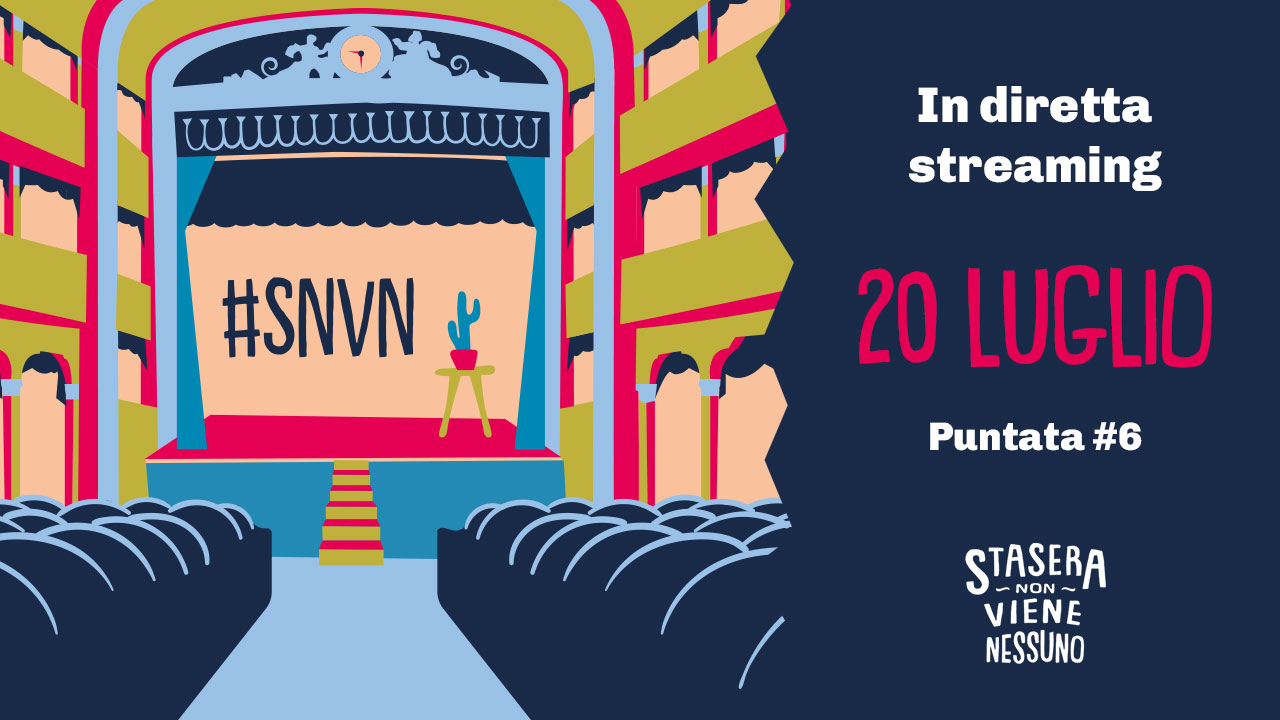
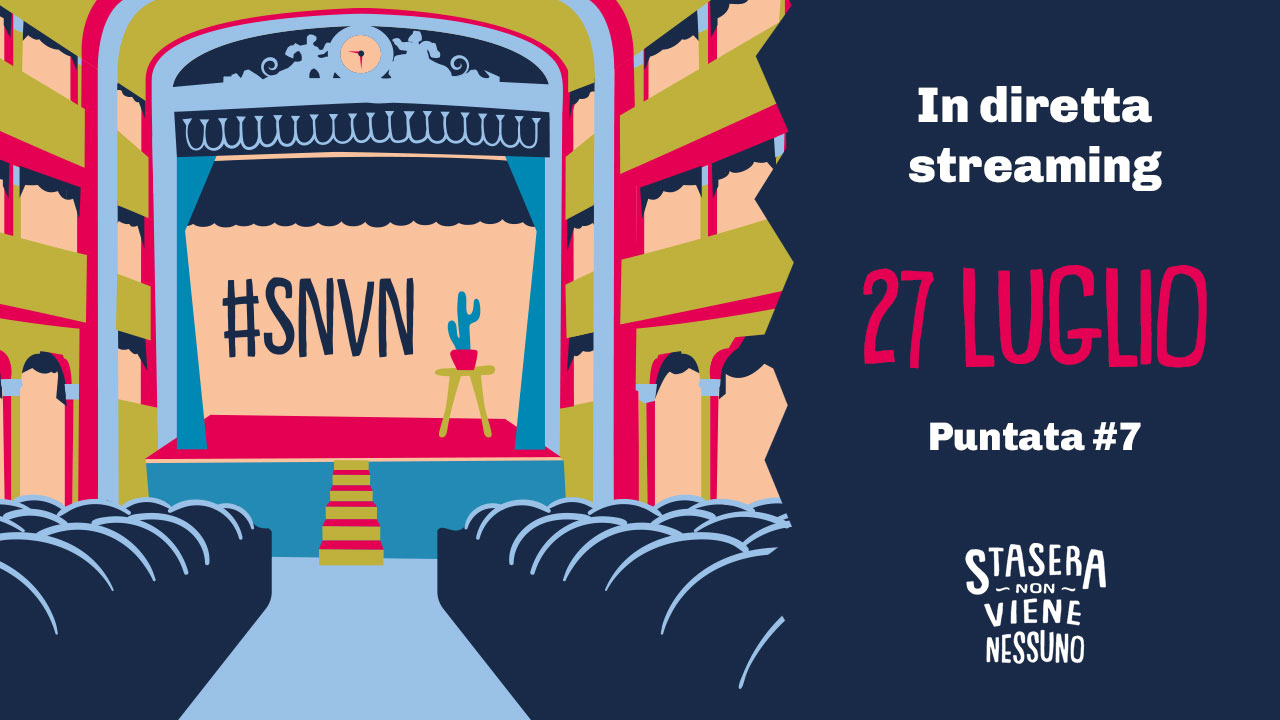
end of season

Changed region(s): [[0.6562, 0.3667, 0.9688, 0.5194], [0.875, 0.5806, 0.9062, 0.6417]]

diff --git a/index.html b/index.html
@@ -94,6 +94,7 @@
         }
 
         .sipario-bkg {
+            position: absolute;
             width:100%;background-color: #192a48;
             height: 100%;
             color: white;
@@ -147,6 +148,7 @@
             display: flex;
             align-items: center;
             justify-content: center;
+            flex-direction: column;
         }
         .date {
             color: #e40053;
@@ -160,12 +162,22 @@
     color: #192a48;
     font-size: 1.5em;
     list-style: none;
-    text-align: right;
+    text-align: center;
+
+    display: flex;
+    flex-wrap: wrap;
+    justify-content: center;
         }
 
-        .calendar > li:not(:first-child) {
+        .calendar>li {
+    margin-right: 20px;
+    margin-top: 60px;
+    width: 280px;
+}
+
+        /* .calendar > li:not(:first-child) {
             margin-top: 15px;
-        }
+        } */
 
         ul.names {
             list-style: none;
@@ -416,7 +428,7 @@ margin-top: 80px;
                 <svg class="arrow-down" xmlns="http://www.w3.org/2000/svg" width="24" height="24" viewBox="0 0 24 24"><path d="M0 7.33l2.829-2.83 9.175 9.339 9.167-9.339 2.829 2.83-11.996 12.17z"/></svg>
             </a>
         </div>
-        <img src="img/sipario.svg" alt="">
+        <img src="img/sipario.svg" style="    background-color: #9ac1e7;        z-index: 130;        position: absolute;        bottom: 0;" alt="Sipario">
     </div>
 
     
@@ -435,11 +447,44 @@ margin-top: 80px;
                 <a href="https://www.youtube.com/channel/UCRoKzBP9y8rmdcRSgY-0a5Q/" target="_blank" rel="noopener noreferrer"><img src="img/youtube.svg" alt="YouTube"></a>
             </div>
             <br>
-            <a onclick="UTIL.scrollTo('.secondary');" target="_blank" rel="noopener noreferrer" class="btn outline">SCOPRI IL PROGRAMMA</a>
-            <br><a style="margin-top: 20px;" href="https://youtu.be/6Y-BINEaFWo" target="_blank" rel="noopener noreferrer" class="btn pulse">GUARDA LA DIRETTA</a>
+            <a onclick="UTIL.scrollTo('.calendar');" target="_blank" rel="noopener noreferrer" class="btn outline">SCOPRI IL PROGRAMMA</a>
+            <br><a style="margin-top: 20px;" onclick="UTIL.scrollTo('.calendar');" target="_blank" rel="noopener noreferrer" class="btn pulse">RIVEDI LE PUNTATE</a>
         </header>
     </section>
     <section class="secondary">
+        <div class="video-container">
+            <a href="https://www.youtube.com/watch?v=YvTb8iOCxEI" target="_blank" rel="noopener noreferrer">
+                <img src="img/video-cover-play.jpg?7" style="display:inline-block; width:100%;" alt="Guarda la diretta">
+                <div class="play-bkg"></div>
+                <div class="play-icon" style="background-image: url(img/play-icon.png);width: 100%;height: 100%;background-repeat: no-repeat;background-position: center;position: absolute;top: 0;right: 0;"></div>
+            </a>
+            <svg id="Livello_1" class="cactus" data-name="Livello 1" xmlns="http://www.w3.org/2000/svg" viewBox="0 0 414.51 813.41">
+                <defs>
+                    <style>
+                        .cls-1{fill:#118ab2;}.cls-2{fill:#ea1c5e;}.cls-3{fill:#b5ad4a;}.cls-4{fill:#fbbc97;}
+                    </style>
+                </defs>
+                <title>
+                    cactus-fiorito
+                </title>
+                <path class="cls-2" d="M226.25,825.11c-4.14-16.59-76.88-142-65.54-162.6s18.82-33.64,65.54-31.77,177.55-7.48,190.64,13.08-28,179.42-33.64,181.29S226.25,825.11,226.25,825.11Z" transform="translate(-91.59 -12.53)"></path>                
+                <path class="cls-1" d="M237,660c-26-37.32-28.91-60-54-97.5a264.56,264.56,0,0,1-41.2-105c-4.08-25.71-12.91-79.84,14.22-96.64,22.66-14,43.53-5.07,57.93,29.2,10.24,24.37,6.76,129.44,28.55,129.44,15.68,0,1.85-23.57-7.61-160.84-5.71-82.81-10.94-110.76-6.19-156,6.47-61.6-2.85-128,42-125.72S315.35,147.66,312.72,206c-1.44,32-.13,100.19,31.78,93.3S383.21,226.52,384,182.9s39.26-46.65,50.25-10.93,22.65,125.72-6.17,168.18-84.86,28.3-85.68,73.15S360.52,649.16,347.2,662,237,660,237,660Z" transform="translate(-91.59 -12.53)"></path>
+                <g class="flower">
+                    
+                    <path class="cls-3" d="M506.1,180.71c-4.45-.09-19.64-2.74-34,.06,7.24-12.43,10-27.19,11.47-31.69-3.64,2.55-17.49,9.33-27.46,20-1.45-14.32-7.88-27.89-9.34-32.38-1.45,4.2-8.67,17.83-10.45,32.34-9.58-10.73-22.76-17.93-26.59-20.7,1.29,4.25,3.47,19.52,10.56,32.3-14.06-3-28.95-1.12-33.68-1.12,3.55,2.68,14.28,13.76,27.53,19.93-13.16,5.8-24.08,16.11-27.91,18.89,4.45.09,19.64,2.74,34-.06-7.24,12.44-10,27.2-11.47,31.69,3.64-2.54,17.49-9.33,27.46-20,1.45,14.31,7.88,27.88,9.34,32.37,1.46-4.2,8.67-17.82,10.45-32.34,9.58,10.73,22.76,17.93,26.59,20.7-1.3-4.25-3.47-19.52-10.56-32.3,14.06,3,29,1.12,33.68,1.12-3.54-2.68-14.28-13.76-27.53-19.93C491.35,193.8,502.28,183.49,506.1,180.71Zm-59.91,18.86h-.05v0h0v0Z" transform="translate(-91.59 -12.53)"></path>
+                    <circle class="cls-4" cx="354.99" cy="186.63" r="15.07"></circle>
+                </g>
+                
+                <g class="flower">
+                <path class="cls-3" d="M195.92,372.56c-3.86-.07-17.09-2.38-29.58.05,6.3-10.82,8.72-23.67,10-27.58-3.18,2.21-15.23,8.12-23.91,17.43-1.26-12.46-6.86-24.27-8.13-28.18-1.27,3.65-7.55,15.52-9.1,28.15-8.34-9.34-19.82-15.61-23.15-18,1.13,3.7,3,17,9.19,28.12-12.24-2.65-25.2-1-29.32-1,3.09,2.33,12.43,12,24,17.34-11.46,5.06-21,14-24.29,16.45,3.87.07,17.09,2.38,29.58-.05-6.3,10.82-8.71,23.67-10,27.58,3.17-2.21,15.23-8.12,23.9-17.43,1.27,12.46,6.86,24.28,8.14,28.19,1.26-3.66,7.54-15.52,9.09-28.15,8.34,9.33,19.82,15.6,23.15,18-1.13-3.71-3-17-9.19-28.12,12.24,2.64,25.2,1,29.32,1-3.09-2.34-12.43-12-24-17.35C183.09,384,192.6,375,195.92,372.56ZM143.78,389h-.05v0h.05v0Z" transform="translate(-91.59 -12.53)"></path>
+                <circle class="cls-4" cx="52.52" cy="376.1" r="13.12"></circle>
+            </g><g class="flower">
+                <path class="cls-3" d="M325.8,72.6c-6.06-.12-26.81-3.74-46.41.08,9.89-17,13.68-37.14,15.67-43.28-5,3.47-23.89,12.74-37.5,27.35-2-19.55-10.77-38.08-12.77-44.22-2,5.74-11.84,24.35-14.26,44.17-13.09-14.65-31.09-24.49-36.32-28.28,1.77,5.81,4.73,26.66,14.42,44.12-19.2-4.15-39.54-1.53-46-1.53,4.84,3.67,19.49,18.79,37.59,27.22-18,7.93-32.89,22-38.11,25.8,6.07.12,26.82,3.74,46.41-.08-9.88,17-13.67,37.14-15.66,43.28,5-3.48,23.89-12.74,37.5-27.35,2,19.54,10.76,38.08,12.76,44.22,2-5.74,11.84-24.35,14.27-44.17,13.09,14.65,31.09,24.48,36.31,28.27-1.76-5.81-4.73-26.66-14.42-44.11,19.21,4.15,39.55,1.53,46,1.52-4.84-3.66-19.5-18.78-37.59-27.21C305.67,90.47,320.59,76.39,325.8,72.6ZM244,98.35h-.06l0,0v0s0,0,0,0H244a0,0,0,0,0,0,0v.06Z" transform="translate(-91.59 -12.53)"></path>
+                <circle class="cls-4" cx="152.93" cy="85.27" r="20.58"></circle>
+            </g>
+            </svg>
+            
+        </div>
         <ul class="calendar">
             <li>
                 <a href="https://www.youtube.com/watch?v=3uP_kypToLo" target="_blank" rel="noopener noreferrer" class="btn-tag">RIVEDI</a><span class="date">15 GIUGNO 2020</span>
@@ -484,13 +529,13 @@ margin-top: 80px;
                 <a href="https://youtu.be/D2IPKWLxYQE" target="_blank" rel="noopener noreferrer" class="btn-tag">RIVEDI</a>
                 <span class="date">13 LUGLIO 2020</span>
                 <ul class="names">
-                    <li>Emanuele Via & Charlie T</li>
+                    <li>Emanuele Via <br>& Charlie T</li>
                     <li>Magalì Berardo<br><small>Musicalista - Agenzia di booking internazionale</small></li>
                     <li>Roberto Zuino e Gabriele Girondi<br><small>Teatro Sequenza</small></li>
                 </ul>
             </li>
 	        <li>
-                <a href="https://youtu.be/6Y-BINEaFWo" target="_blank" rel="noopener noreferrer" class="btn-tag">GUARDA IN DIRETTA</a>
+                <a href="https://youtu.be/6Y-BINEaFWo" target="_blank" rel="noopener noreferrer" class="btn-tag">RIVEDI</a>
                 <span class="date">20 LUGLIO 2020</span>
                 <ul class="names">
                     <li>Zibba<br><small>Cantautore</small></li>
@@ -498,40 +543,17 @@ margin-top: 80px;
                     <li>Richi Selva<br><small>Stand Up Comedy</small></li>
                 </ul>
             </li>
+            <li>
+                <a href="https://youtu.be/YvTb8iOCxEI" target="_blank" rel="noopener noreferrer" class="btn-tag">RIVEDI</a>
+                <span class="date">27 LUGLIO 2020</span>
+                <ul class="names">
+                    <li>Cacao Mental<br><small>Elektro Cumbia Psicodelica</small></li>
+                    <li>Annarita Masullo<br><small>Direttore di produzione presso The Goodness Factory</small></li>
+                    <li>Marta Tortia<br><small>Violinista del Teatro Regio di Torino</small></li>
+                    <li>Carlo Joly<br><small>Comico</small></li>
+                </ul>
+            </li>
         </ul>
-        <div class="video-container">
-            <a href="https://www.youtube.com/watch?v=6Y-BINEaFWo" target="_blank" rel="noopener noreferrer">
-                <img src="img/video-cover-play.jpg?6" style="display:inline-block; width:100%;" alt="Guarda la diretta">
-                <div class="play-bkg"></div>
-                <div class="play-icon" style="background-image: url(img/play-icon.png);width: 100%;height: 100%;background-repeat: no-repeat;background-position: center;position: absolute;top: 0;right: 0;"></div>
-            </a>
-            <svg id="Livello_1" class="cactus" data-name="Livello 1" xmlns="http://www.w3.org/2000/svg" viewBox="0 0 414.51 813.41">
-                <defs>
-                    <style>
-                        .cls-1{fill:#118ab2;}.cls-2{fill:#ea1c5e;}.cls-3{fill:#b5ad4a;}.cls-4{fill:#fbbc97;}
-                    </style>
-                </defs>
-                <title>
-                    cactus-fiorito
-                </title>
-                <path class="cls-2" d="M226.25,825.11c-4.14-16.59-76.88-142-65.54-162.6s18.82-33.64,65.54-31.77,177.55-7.48,190.64,13.08-28,179.42-33.64,181.29S226.25,825.11,226.25,825.11Z" transform="translate(-91.59 -12.53)"></path>                
-                <path class="cls-1" d="M237,660c-26-37.32-28.91-60-54-97.5a264.56,264.56,0,0,1-41.2-105c-4.08-25.71-12.91-79.84,14.22-96.64,22.66-14,43.53-5.07,57.93,29.2,10.24,24.37,6.76,129.44,28.55,129.44,15.68,0,1.85-23.57-7.61-160.84-5.71-82.81-10.94-110.76-6.19-156,6.47-61.6-2.85-128,42-125.72S315.35,147.66,312.72,206c-1.44,32-.13,100.19,31.78,93.3S383.21,226.52,384,182.9s39.26-46.65,50.25-10.93,22.65,125.72-6.17,168.18-84.86,28.3-85.68,73.15S360.52,649.16,347.2,662,237,660,237,660Z" transform="translate(-91.59 -12.53)"></path>
-                <g class="flower">
-                    
-                    <path class="cls-3" d="M506.1,180.71c-4.45-.09-19.64-2.74-34,.06,7.24-12.43,10-27.19,11.47-31.69-3.64,2.55-17.49,9.33-27.46,20-1.45-14.32-7.88-27.89-9.34-32.38-1.45,4.2-8.67,17.83-10.45,32.34-9.58-10.73-22.76-17.93-26.59-20.7,1.29,4.25,3.47,19.52,10.56,32.3-14.06-3-28.95-1.12-33.68-1.12,3.55,2.68,14.28,13.76,27.53,19.93-13.16,5.8-24.08,16.11-27.91,18.89,4.45.09,19.64,2.74,34-.06-7.24,12.44-10,27.2-11.47,31.69,3.64-2.54,17.49-9.33,27.46-20,1.45,14.31,7.88,27.88,9.34,32.37,1.46-4.2,8.67-17.82,10.45-32.34,9.58,10.73,22.76,17.93,26.59,20.7-1.3-4.25-3.47-19.52-10.56-32.3,14.06,3,29,1.12,33.68,1.12-3.54-2.68-14.28-13.76-27.53-19.93C491.35,193.8,502.28,183.49,506.1,180.71Zm-59.91,18.86h-.05v0h0v0Z" transform="translate(-91.59 -12.53)"></path>
-                    <circle class="cls-4" cx="354.99" cy="186.63" r="15.07"></circle>
-                </g>
-                
-                <g class="flower">
-                <path class="cls-3" d="M195.92,372.56c-3.86-.07-17.09-2.38-29.58.05,6.3-10.82,8.72-23.67,10-27.58-3.18,2.21-15.23,8.12-23.91,17.43-1.26-12.46-6.86-24.27-8.13-28.18-1.27,3.65-7.55,15.52-9.1,28.15-8.34-9.34-19.82-15.61-23.15-18,1.13,3.7,3,17,9.19,28.12-12.24-2.65-25.2-1-29.32-1,3.09,2.33,12.43,12,24,17.34-11.46,5.06-21,14-24.29,16.45,3.87.07,17.09,2.38,29.58-.05-6.3,10.82-8.71,23.67-10,27.58,3.17-2.21,15.23-8.12,23.9-17.43,1.27,12.46,6.86,24.28,8.14,28.19,1.26-3.66,7.54-15.52,9.09-28.15,8.34,9.33,19.82,15.6,23.15,18-1.13-3.71-3-17-9.19-28.12,12.24,2.64,25.2,1,29.32,1-3.09-2.34-12.43-12-24-17.35C183.09,384,192.6,375,195.92,372.56ZM143.78,389h-.05v0h.05v0Z" transform="translate(-91.59 -12.53)"></path>
-                <circle class="cls-4" cx="52.52" cy="376.1" r="13.12"></circle>
-            </g><g class="flower">
-                <path class="cls-3" d="M325.8,72.6c-6.06-.12-26.81-3.74-46.41.08,9.89-17,13.68-37.14,15.67-43.28-5,3.47-23.89,12.74-37.5,27.35-2-19.55-10.77-38.08-12.77-44.22-2,5.74-11.84,24.35-14.26,44.17-13.09-14.65-31.09-24.49-36.32-28.28,1.77,5.81,4.73,26.66,14.42,44.12-19.2-4.15-39.54-1.53-46-1.53,4.84,3.67,19.49,18.79,37.59,27.22-18,7.93-32.89,22-38.11,25.8,6.07.12,26.82,3.74,46.41-.08-9.88,17-13.67,37.14-15.66,43.28,5-3.48,23.89-12.74,37.5-27.35,2,19.54,10.76,38.08,12.76,44.22,2-5.74,11.84-24.35,14.27-44.17,13.09,14.65,31.09,24.48,36.31,28.27-1.76-5.81-4.73-26.66-14.42-44.11,19.21,4.15,39.55,1.53,46,1.52-4.84-3.66-19.5-18.78-37.59-27.21C305.67,90.47,320.59,76.39,325.8,72.6ZM244,98.35h-.06l0,0v0s0,0,0,0H244a0,0,0,0,0,0,0v.06Z" transform="translate(-91.59 -12.53)"></path>
-                <circle class="cls-4" cx="152.93" cy="85.27" r="20.58"></circle>
-            </g>
-            </svg>
-            
-        </div>
     </section>
     <section class="sponsor">
         <h2>PROPOSTO DA</h2>
